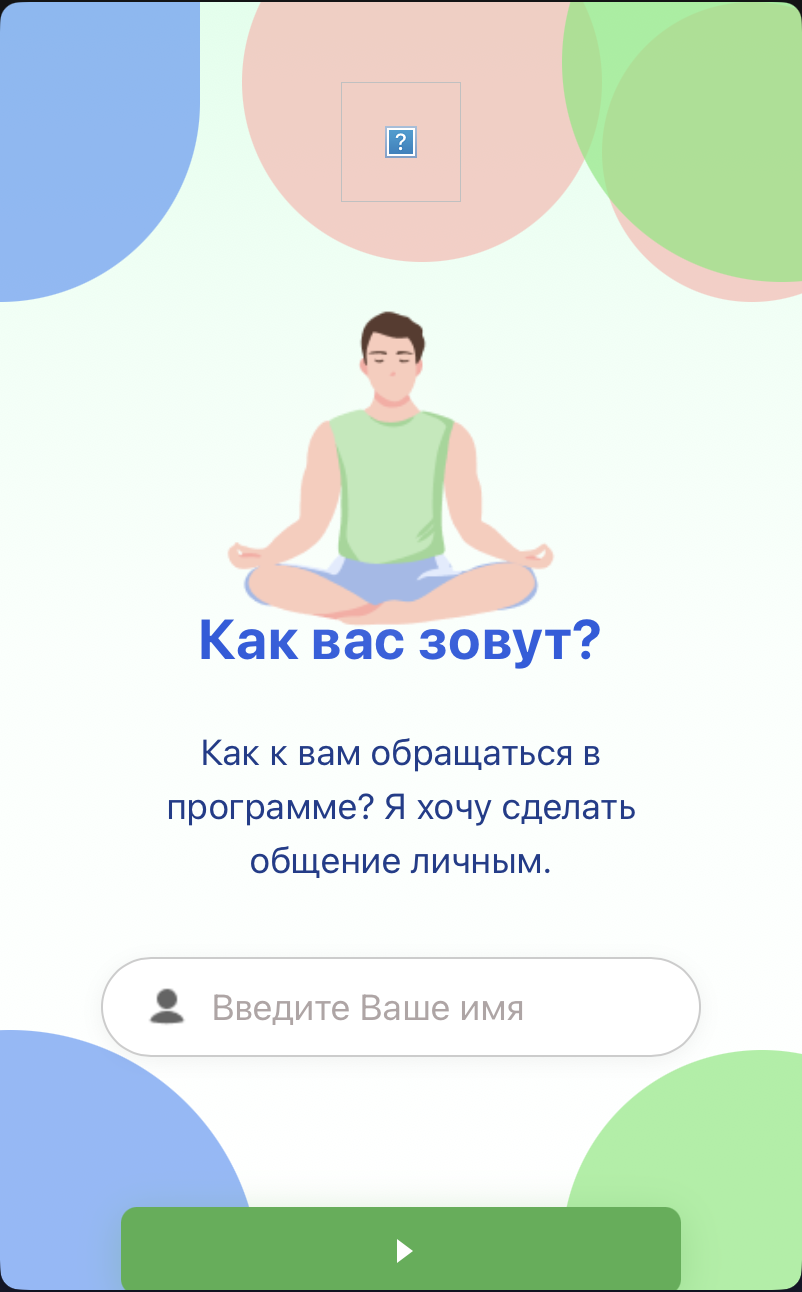
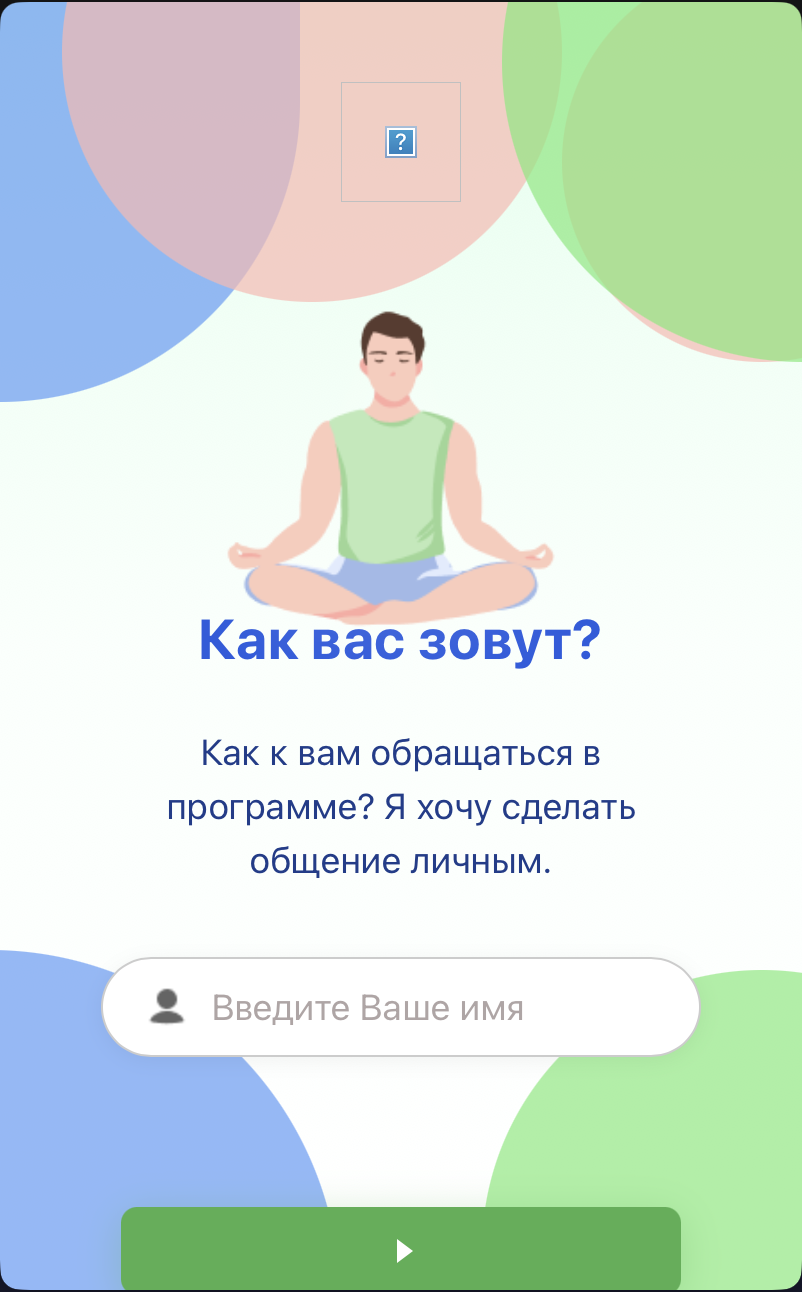
bag fix

Changed region(s): [[0.0, 0.0, 1.0, 0.3096], [0.5923, 0.743, 1.0, 0.9598], [0.0, 0.7121, 0.4052, 0.9598]]

diff --git a/src/pages/name-input/style.css b/src/pages/name-input/style.css
@@ -52,6 +52,12 @@ body {
     -webkit-font-smoothing: antialiased;
     -moz-osx-font-smoothing: grayscale;
     height: 100vh; /* Фиксированная высота viewport */
+    
+    /* New: Background image for the second screen */
+    background-image: url('../../assets/images/background.png');
+    background-size: cover; /* Cover the entire element */
+    background-repeat: no-repeat; /* Do not repeat the image */
+    background-position: center center; /* Center the image */
 }
 
 .app-container {
@@ -59,77 +65,73 @@ body {
     display: flex;
     flex-direction: column;
     position: relative;
-    background: linear-gradient(180deg, rgba(198, 255, 221, 0.6) 0%, rgba(198, 255, 221, 0.3) 25%, rgba(198, 255, 221, 0.1) 50%, transparent 100%); /* Заметный зеленый градиент сверху */
+    /* Remove the linear gradient as it's replaced by the image */
+    /* background: linear-gradient(180deg, rgba(198, 255, 221, 0.6) 0%, rgba(198, 255, 221, 0.3) 25%, rgba(198, 255, 221, 0.1) 50%, transparent 100%); */
     overflow: hidden; /* Убираем прокрутку */
 }
 
-/* Background Shapes */
+/* Remove all Background Shapes CSS */
+/*
 .background-shape {
     position: absolute;
     opacity: 0.7;
     z-index: 0;
 }
 
-/* Top-Left Blue Rectangle */
 .shape-blue-top-left {
     background-color: var(--color-blue);
-    width: 300px; /* Larger */
-    height: 350px; /* Larger */
-    top: -150px; /* More off-screen */
-    left: -150px; /* More off-screen */
-    border-radius: 0 0 150px 0; /* More rounded, larger corner */
+    width: 300px;
+    height: 350px;
+    top: -150px;
+    left: -150px;
+    border-radius: 0 0 150px 0;
 }
 
-/* Top-Middle Light Pink (first) */
 .shape-pink-top-right {
     background-color: var(--color-light-pink);
-    width: 250px; /* Larger */
-    height: 250px; /* Larger */
-    top: -100px; /* More off-screen */
-    right: 120px; /* Adjusted position */
-    border-radius: 50%; /* Still circular, but larger */
+    width: 250px;
+    height: 250px;
+    top: -100px;
+    right: 120px;
+    border-radius: 50%;
 }
 
-/* Top-Right Light Pink (second) */
 .shape-pink-top-right-2 {
     background-color: var(--color-light-pink);
-    width: 200px; /* Larger */
-    height: 200px; /* Larger */
-    top: -20px; /* Adjusted position */
-    right: -80px; /* More off-screen */
-    border-radius: 50%; /* Still circular, but larger */
+    width: 200px;
+    height: 200px;
+    top: -20px;
+    right: -80px;
+    border-radius: 50%;
 }
 
-/* Top-Right Green */
 .shape-green-top-right {
     background-color: var(--color-green);
-    width: 300px; /* Larger */
-    height: 300px; /* Larger */
-    top: -120px; /* More off-screen */
-    right: -150px; /* More off-screen */
-    border-radius: 50%; /* Still circular, but larger */
+    width: 300px;
+    height: 300px;
+    top: -120px;
+    right: -150px;
+    border-radius: 50%;
 }
 
-/* Bottom-Left Blue */
 .shape-blue-bottom-left {
     background-color: var(--color-blue);
-    width: 350px; /* Larger */
-    height: 350px; /* Larger */
-    bottom: -180px; /* More off-screen */
-    left: -180px; /* More off-screen */
-    border-radius: 50%; /* Still circular, but larger */
+    width: 350px;
+    height: 350px;
+    bottom: -180px;
+    left: -180px;
+    border-radius: 50%;
 }
 
-/* Bottom-Right Green */
 .shape-green-bottom-right {
     background-color: var(--color-green);
-    width: 280px; /* Larger */
-    height: 280px; /* Larger */
-    bottom: -120px; /* More off-screen */
-    right: -120px; /* More off-screen */
-    border-radius: 50%; /* Still circular, but larger */
+    width: 280px;
+    height: 280px;
+    bottom: -120px;
+    right: -120px;
+    border-radius: 50%;
 }
-
+*/
 
 /* Screen Layout */
 .name-input-screen {

diff --git a/src/pages/name-input/index.html b/src/pages/name-input/index.html
@@ -29,13 +29,7 @@
 </head>
 <body>
     <div class="app-container">
-        <!-- Background Shapes -->
-        <div class="background-shape shape-blue-top-left"></div>
-        <div class="background-shape shape-pink-top-right"></div>
-        <div class="background-shape shape-pink-top-right-2"></div>
-        <div class="background-shape shape-green-top-right"></div>
-        <div class="background-shape shape-blue-bottom-left"></div>
-        <div class="background-shape shape-green-bottom-right"></div>
+        
 
         <main class="name-input-screen">
             <div class="top-icon-section">
